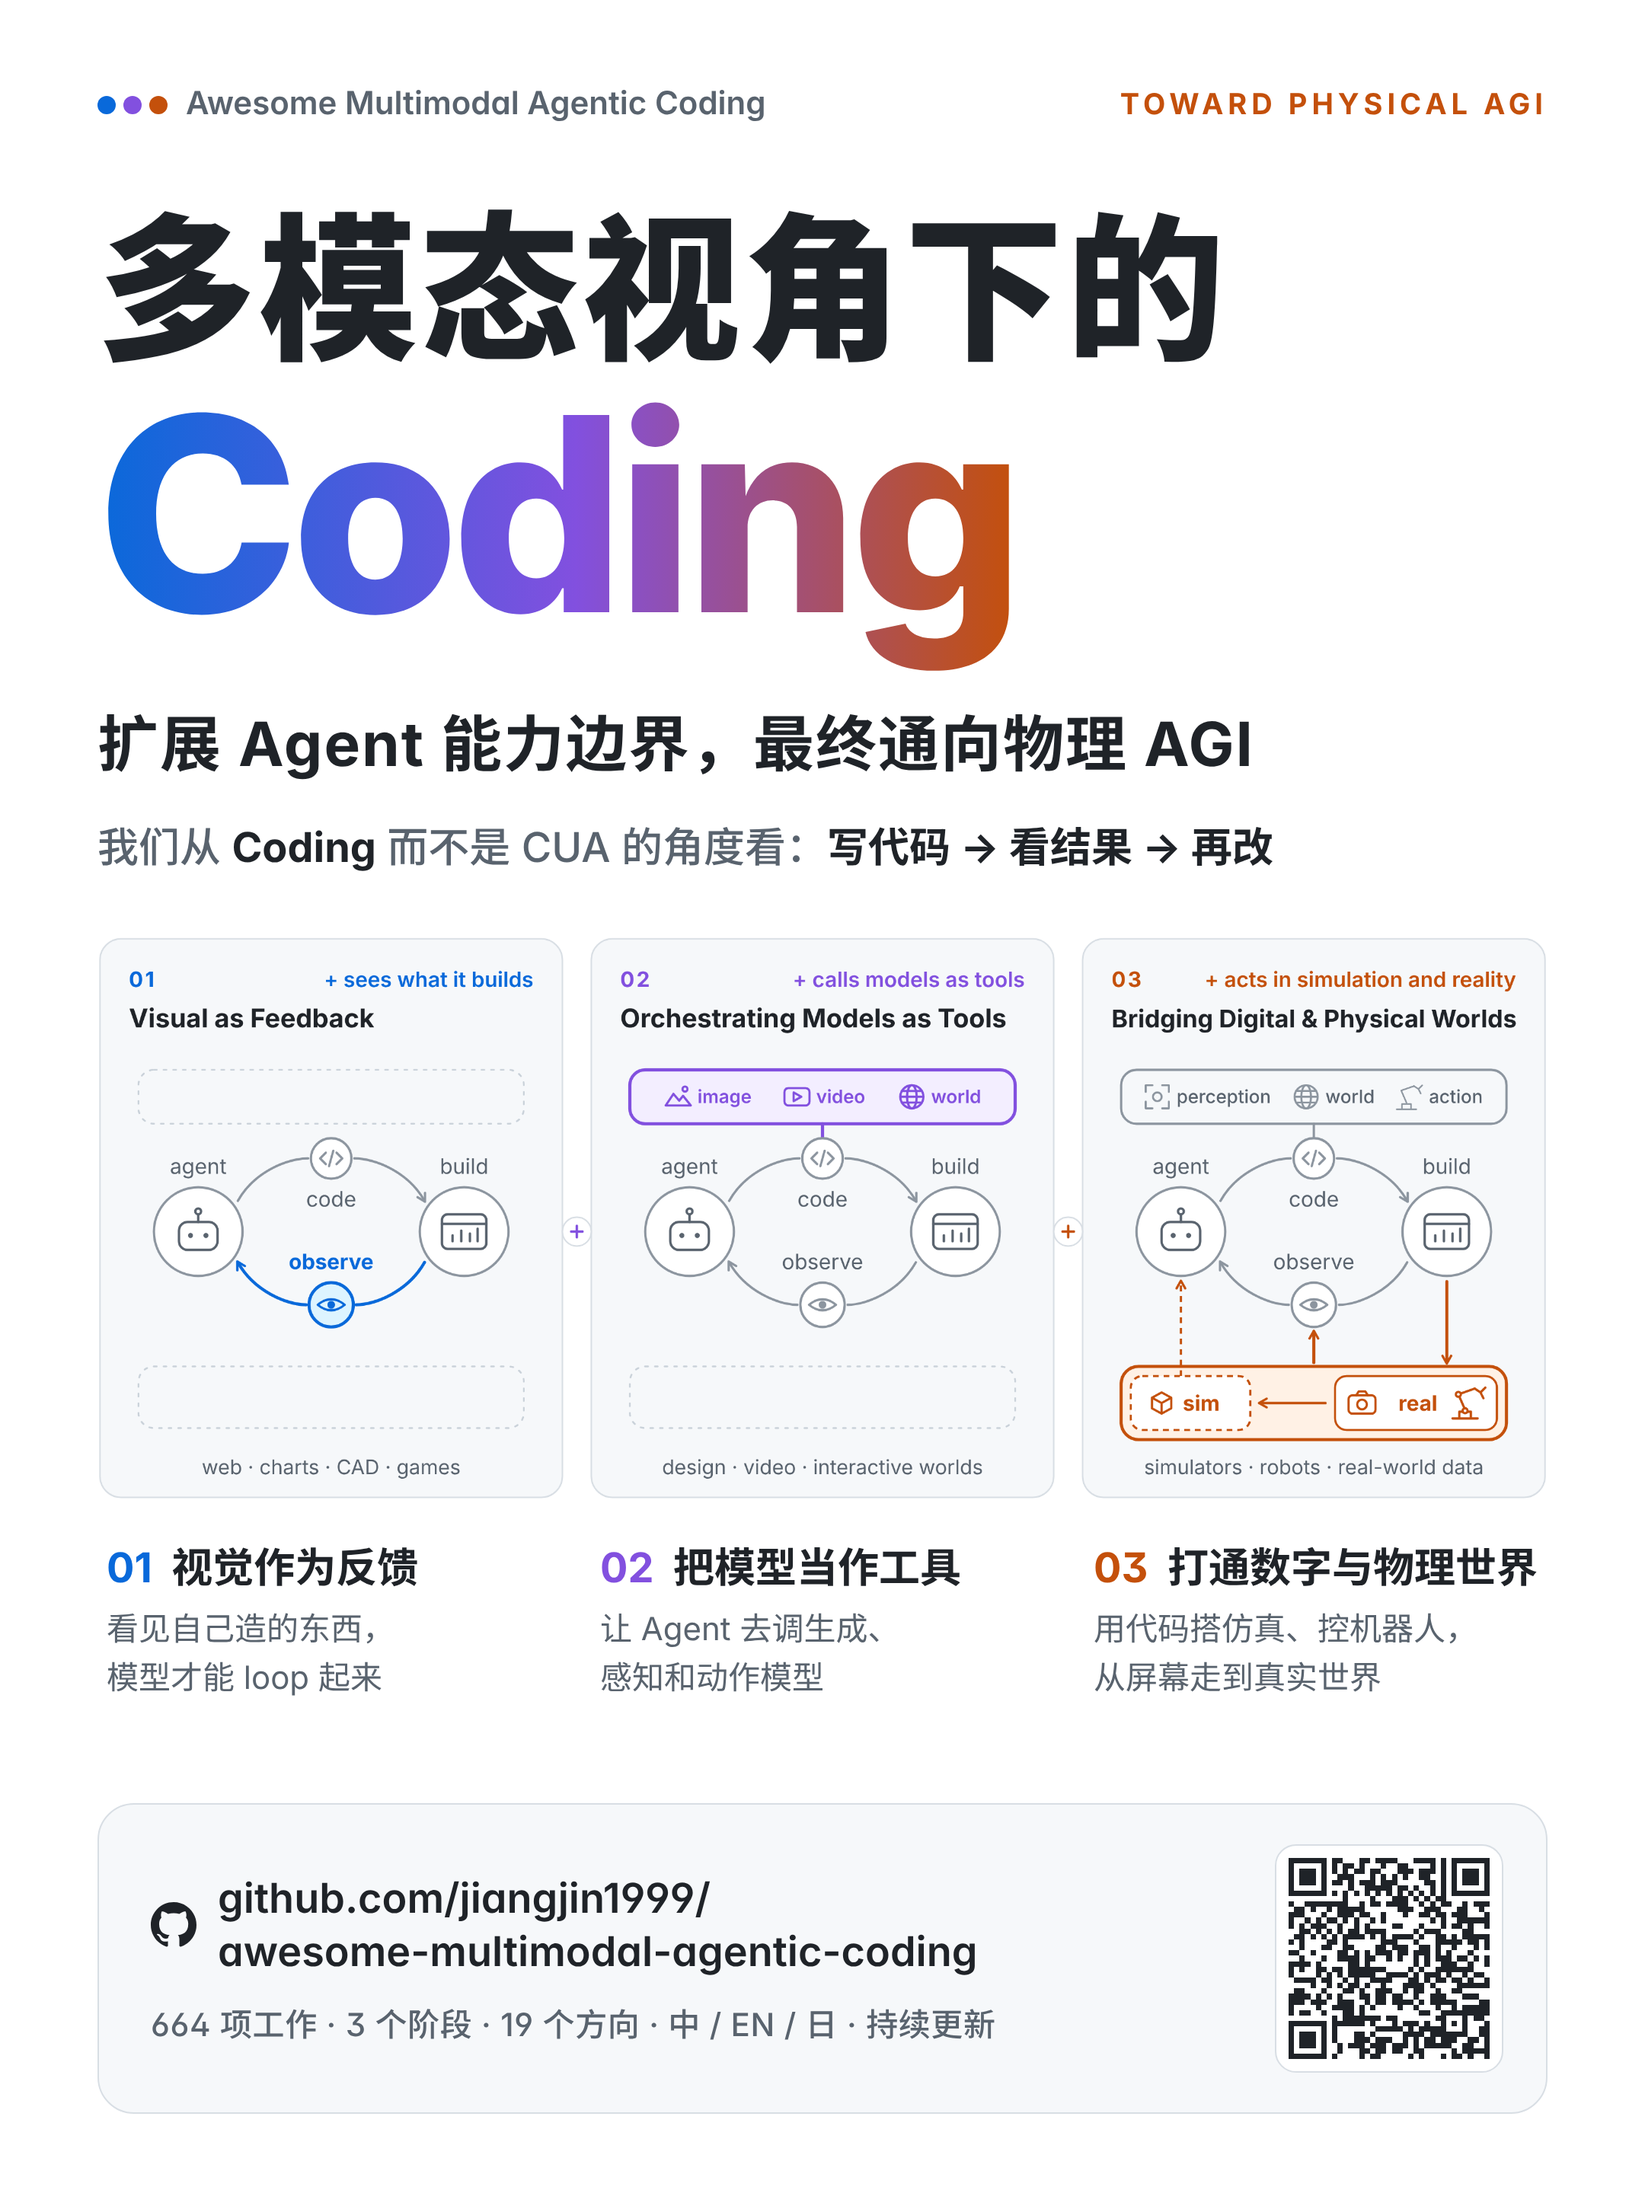
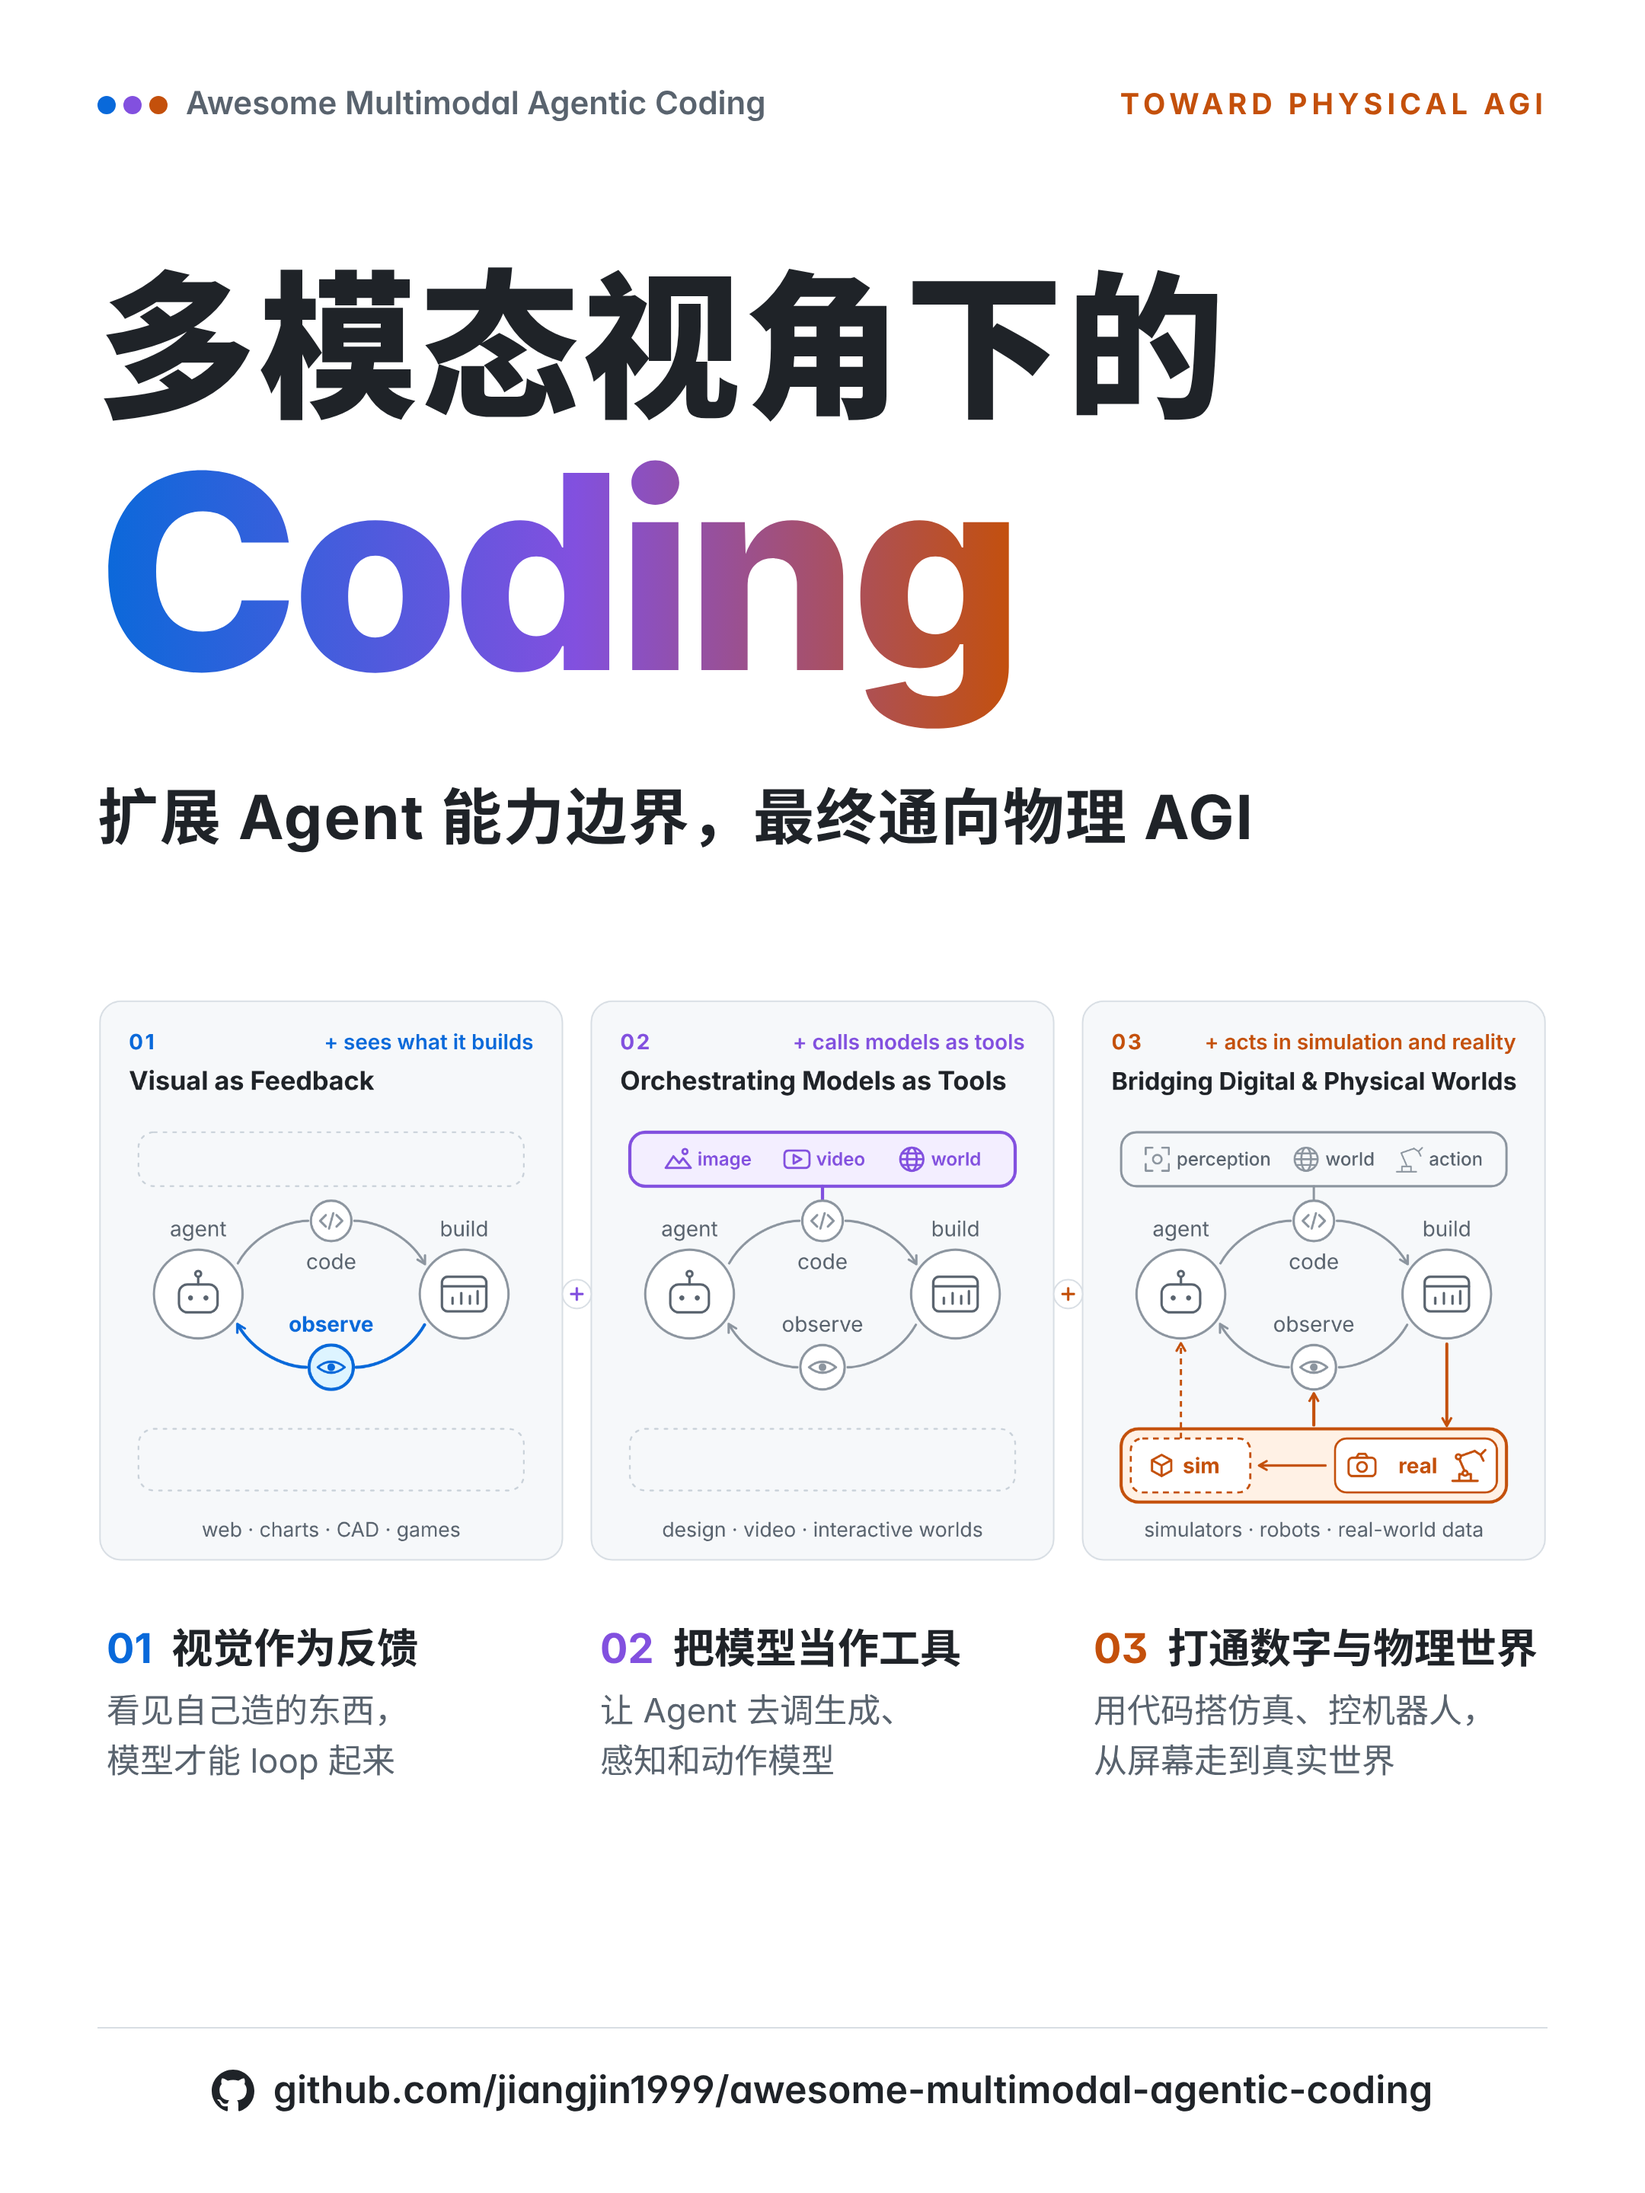
Slim down the promo cover footer
Drop the "coding, not CUA" line and replace the link card, stats and QR
code with a single repository link; spread the freed space over the page.

Claude-Session: https://claude.ai/code/session_01PZLRnhK6KdyKQiDbpVhFsH

diff --git a/promo/gen.js b/promo/gen.js
@@ -1,16 +1,14 @@
 // Promo cover for "多模态视角下的 Coding" (3:4, 1080x1440 at 2x).
 // Usage (from the repository root):  node promo/gen.js
-// Needs Playwright and the npm packages `qrcode` and `@fontsource/noto-sans-sc` (install them anywhere and
-// point NODE_PATH at that node_modules). Without the font package it falls back to system CJK fonts.
+// Needs Playwright and the npm package `@fontsource/noto-sans-sc` (install it anywhere and point NODE_PATH at
+// that node_modules). Without the font package it falls back to system CJK fonts.
 const fs = require('fs');
 const os = require('os');
 const path = require('path');
 const { chromium } = require('playwright');
-const QRCode = require('qrcode');
 
 const ROOT = path.resolve(__dirname, '..');
 const OUT = path.join(__dirname, 'images');
-const REPO_URL = 'https://github.com/jiangjin1999/awesome-multimodal-agentic-coding';
 const HERO = path.join(ROOT, 'assets/hero/hero-light.png'); // 3200 x 1496
 
 let notoDir = null;
@@ -34,24 +32,19 @@ body{font-family:'Inter','Noto Sans SC','PingFang SC','Noto Sans CJK SC','Micros
 .agi{color:${C.acc[2]};letter-spacing:3px;font-size:19px;font-weight:700}
 b{font-weight:700}
 .grad{background:linear-gradient(90deg,${C.acc[0]} 0%,${C.acc[1]} 52%,${C.acc[2]} 100%);-webkit-background-clip:text;background-clip:text;color:transparent}
-.big{margin-top:58px;line-height:1}
+.big{margin-top:96px;line-height:1}
 .big .l1{display:block;font-size:104px;font-weight:900;letter-spacing:2px}
 .big .l2{display:inline-block;font-size:178px;font-weight:800;letter-spacing:-5px;margin-top:6px;padding-bottom:14px}
-.sub{margin-top:16px;font-size:40px;font-weight:700;letter-spacing:1px}
-.idea{margin-top:20px;font-size:27px;color:${C.sub};font-weight:500}
-.idea b{color:${C.ink}}
-.heroWrap{margin-top:40px;width:952px;overflow:hidden;position:relative}
+.sub{margin-top:26px;font-size:40px;font-weight:700;letter-spacing:1px}
+.heroWrap{margin-top:92px;width:952px;overflow:hidden;position:relative}
 .heroWrap img{position:absolute;display:block}
-.cols{margin-top:18px;display:grid;grid-template-columns:repeat(3,1fr);gap:20px}
+.cols{margin-top:30px;display:grid;grid-template-columns:repeat(3,1fr);gap:20px}
 .col{padding:2px 6px 0}
 .col .t{font-size:27px;font-weight:700;margin-top:2px}
-.col .d{font-size:21px;color:${C.sub};margin-top:8px;line-height:1.5}
-.foot{margin-top:auto;display:flex;align-items:center;justify-content:space-between;gap:28px;
-  background:${C.card};border:1.5px solid ${C.stroke};border-radius:24px;padding:26px 28px 26px 34px}
-.foot .gh{display:flex;align-items:center;gap:14px;font-size:27px;font-weight:600;line-height:1.3}
-.foot .stats{margin-top:14px;font-size:21px;color:${C.sub};font-weight:500;letter-spacing:.3px}
-.qr{width:150px;height:150px;flex:none;background:#fff;border-radius:14px;padding:8px;border:1.5px solid ${C.stroke}}
-.qr svg{width:100%;height:100%;display:block}
+.col .d{font-size:22px;color:${C.sub};margin-top:8px;line-height:1.5}
+.link{margin-top:auto;display:flex;align-items:center;justify-content:center;gap:12px;padding-top:26px;
+  border-top:1.5px solid ${C.stroke};font-size:25px;font-weight:600}
+.link svg{width:28px;height:28px}
 `;
 
 // Show the source rect (x, y, w, h) of the hero PNG inside a box of width boxW.
@@ -60,7 +53,7 @@ function crop(cls, x, y, w, h, boxW) {
   return `<div class="${cls}" style="width:${boxW}px;height:${Math.round(h * s)}px"><img src="file://${HERO}" style="width:${3200 * s}px;left:${-x * s}px;top:${-y * s}px"></div>`;
 }
 
-function cover(qrSvg) {
+function cover() {
   const cols = [
     ['01', '视觉作为反馈', '看见自己造的东西，<br>模型才能 loop 起来'],
     ['02', '把模型当作工具', '让 Agent 去调生成、<br>感知和动作模型'],
@@ -70,22 +63,16 @@ function cover(qrSvg) {
   <div class="topbar"><span class="brand"><span class="dots">${C.acc.map((c) => `<i style="background:${c}"></i>`).join('')}</span>Awesome Multimodal Agentic Coding</span><span class="agi">TOWARD PHYSICAL AGI</span></div>
   <h1 class="big"><span class="l1">多模态视角下的</span><span class="l2 grad">Coding</span></h1>
   <div class="sub">扩展 Agent 能力边界，最终通向物理 AGI</div>
-  <div class="idea">我们从 <b>Coding</b> 而不是 CUA 的角度看：<b>写代码 → 看结果 → 再改</b></div>
   ${crop('heroWrap', 96, 256, 3008, 1176, 952)}
   <div class="cols">${cols.map(([n, t, d], i) => `<div class="col"><div class="t"><span style="color:${C.acc[i]}">${n}</span>&nbsp; ${t}</div><div class="d">${d}</div></div>`).join('')}</div>
-  <div class="foot">
-    <div><div class="gh">${GH}<span>github.com/jiangjin1999/<br>awesome-multimodal-agentic-coding</span></div>
-    <div class="stats">664 项工作 · 3 个阶段 · 19 个方向 · 中 / EN / 日 · 持续更新</div></div>
-    <div class="qr">${qrSvg}</div>
-  </div>
+  <div class="link">${GH}github.com/jiangjin1999/awesome-multimodal-agentic-coding</div>
 </div>`;
 }
 
 (async () => {
   fs.mkdirSync(OUT, { recursive: true });
-  const qrSvg = await QRCode.toString(REPO_URL, { type: 'svg', margin: 0, errorCorrectionLevel: 'M', color: { dark: C.ink, light: '#FFFFFF' } });
   const file = path.join(fs.mkdtempSync(path.join(os.tmpdir(), 'mmac-promo-')), 'cover.html');
-  fs.writeFileSync(file, `<!doctype html><html lang="zh-CN"><head><meta charset="utf-8">${fontLinks}<style>${css}</style></head><body>${cover(qrSvg)}</body></html>`);
+  fs.writeFileSync(file, `<!doctype html><html lang="zh-CN"><head><meta charset="utf-8">${fontLinks}<style>${css}</style></head><body>${cover()}</body></html>`);
   const browser = await chromium.launch();
   const page = await browser.newPage({ viewport: { width: 1080, height: 1440 }, deviceScaleFactor: 2 });
   await page.goto(`file://${file}`);

diff --git a/promo/post.zh-CN.md b/promo/post.zh-CN.md
@@ -51,7 +51,7 @@ https://github.com/jiangjin1999/awesome-multimodal-agentic-coding
 
 ## 二、封面图
 
-[`images/cover.png`](images/cover.png)：2160 × 2880（3:4）。大字「多模态视角下的 Coding」，加上仓库头图、三个阶段、链接和二维码。
+[`images/cover.png`](images/cover.png)：2160 × 2880（3:4）。大字「多模态视角下的 Coding」，加上仓库头图、三个阶段和仓库链接。
 
 ## 三、正文（详细思路）
 
